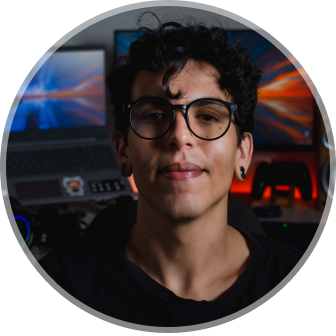
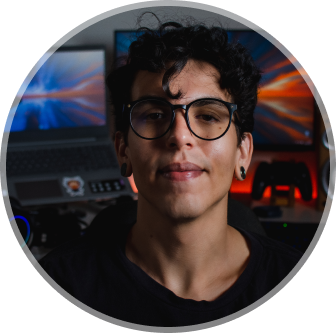
Update script

diff --git a/script.js b/script.js
@@ -1,9 +1,13 @@
 function toggleMode() {
   const html = document.documentElement
+  html.classList.toggle("light")
+
+  const img = document.querySelector("#profile img")
 
   if (html.classList.contains("light")) {
-    html.classList.remove("light")
-  } else {
-    html.classList.add("light")
+    img.setAttribute("src", "./assets/Avatar-light.png")
+  }
+  else {
+    img.setAttribute("src", "./assets/Avatar.png")
   }
 }

diff --git a/style.css b/style.css
@@ -26,7 +26,7 @@
 
 body {
   background: var(--bg-url) no-repeat top center/cover;
-  transition: background 0.5s;
+  transition: background 1s;
 }
 
 body * {
@@ -47,7 +47,6 @@ body * {
 #profile {
   text-align: center;
   padding: 24px;
-  
   /*
   width: 360px;
   height: 192px;
